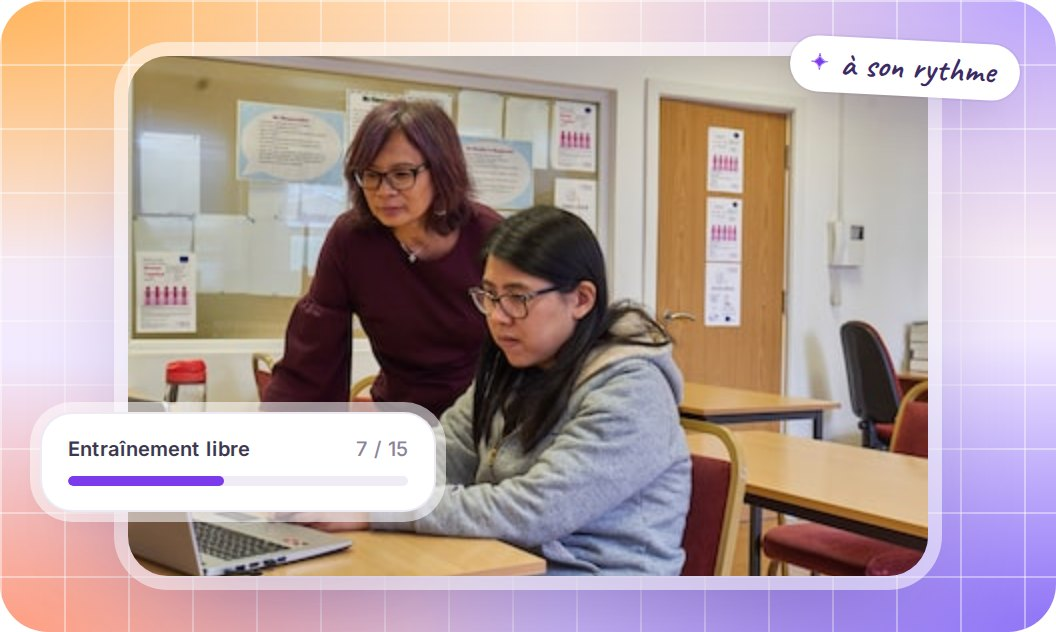
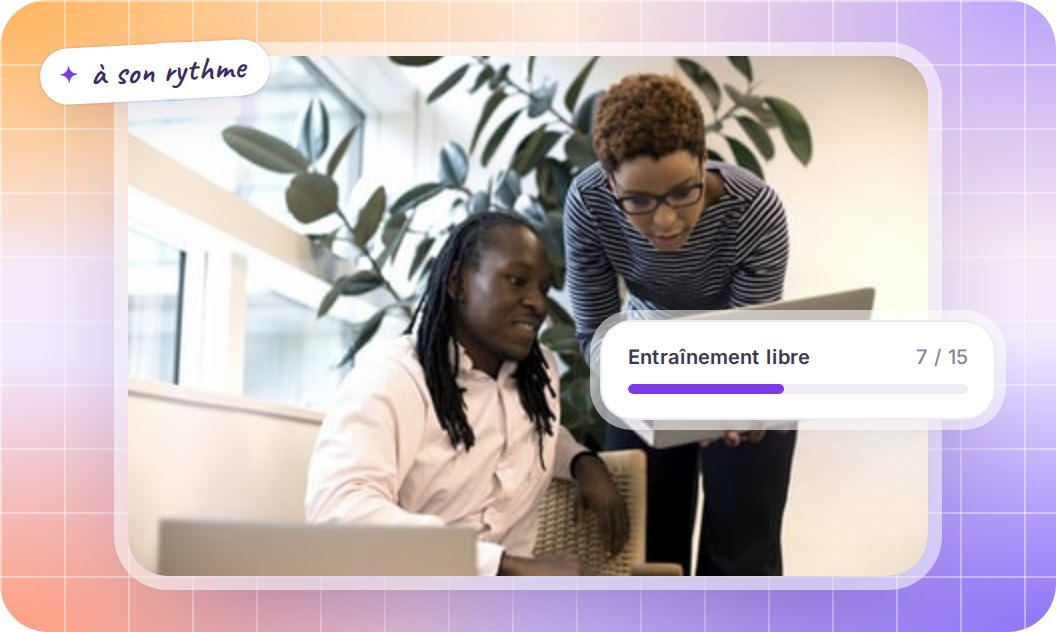
Newsletter CiviCap : chiffres en Instrument Sans, nouvelle photo d'en-tête
- Les trois chiffres des parcours (235, 257, 343) passent de l'Instrument Serif
  italique à l'Instrument Sans 600, serré à -0,03 em pour que les chiffres ne se
  touchent pas dans les polices de repli (Gmail, Outlook).
- L'en-tête du bloc blanc prend une photo claire : une formatrice montre son
  ordinateur à une personne en formation (Unsplash, UK Black Tech). La carte
  « Entraînement libre » se pose sur l'ordinateur et en couvre le logo ;
  l'étiquette « à son rythme » passe en haut à gauche.
- Texte alternatif, brief et README (typographie, crédit photo) mis à jour.

Claude-Session: https://claude.ai/code/session_01FeZWDqfAndBDqFz8uAYmmt

diff --git a/travaux/newsletter-civicap/email.html b/travaux/newsletter-civicap/email.html
@@ -104,7 +104,7 @@
     <p style="margin:28px 0 14px;text-align:center;font-family:Inter,-apple-system,BlinkMacSystemFont,'Segoe UI',Roboto,Helvetica,Arial,sans-serif;font-size:11px;font-weight:700;letter-spacing:.14em;text-transform:uppercase;color:#4C1D95;">
       835&nbsp;questions&nbsp;officielles · trois&nbsp;parcours</p>
     <table role="presentation" width="100%" cellpadding="0" cellspacing="0" border="0" style="border-collapse:separate;"><tr>
-      <td class="puce" width="33%" valign="top" bgcolor="#FFFFFF" style="background:#FFFFFF;border-radius:20px;padding:18px 18px 17px;"><div class="chiffre serif" style="font-family:'Instrument Serif',Georgia,'Times New Roman',serif;font-style:italic;font-weight:400;font-size:48px;line-height:.92;letter-spacing:-.01em;color:#6D28D9;">235</div><div style="font-family:Inter,-apple-system,BlinkMacSystemFont,'Segoe UI',Roboto,Helvetica,Arial,sans-serif;font-size:10.5px;font-weight:700;letter-spacing:.11em;text-transform:uppercase;color:#8A8499;padding-top:9px;">questions</div><div class="lib" style="font-family:'Instrument Sans',-apple-system,BlinkMacSystemFont,'Segoe UI',Roboto,Helvetica,Arial,sans-serif;font-size:15px;line-height:1.25;font-weight:600;letter-spacing:-.012em;color:#0F0A1A;padding-top:11px;">Carte de séjour pluriannuelle</div></td><td width="10" style="width:10px;font-size:0;line-height:0;">&nbsp;</td><td class="puce" width="33%" valign="top" bgcolor="#FFFFFF" style="background:#FFFFFF;border-radius:20px;padding:18px 18px 17px;"><div class="chiffre serif" style="font-family:'Instrument Serif',Georgia,'Times New Roman',serif;font-style:italic;font-weight:400;font-size:48px;line-height:.92;letter-spacing:-.01em;color:#6D28D9;">257</div><div style="font-family:Inter,-apple-system,BlinkMacSystemFont,'Segoe UI',Roboto,Helvetica,Arial,sans-serif;font-size:10.5px;font-weight:700;letter-spacing:.11em;text-transform:uppercase;color:#8A8499;padding-top:9px;">questions</div><div class="lib" style="font-family:'Instrument Sans',-apple-system,BlinkMacSystemFont,'Segoe UI',Roboto,Helvetica,Arial,sans-serif;font-size:15px;line-height:1.25;font-weight:600;letter-spacing:-.012em;color:#0F0A1A;padding-top:11px;">Carte de résident</div></td><td width="10" style="width:10px;font-size:0;line-height:0;">&nbsp;</td><td class="puce" width="33%" valign="top" bgcolor="#FFFFFF" style="background:#FFFFFF;border-radius:20px;padding:18px 18px 17px;"><div class="chiffre serif" style="font-family:'Instrument Serif',Georgia,'Times New Roman',serif;font-style:italic;font-weight:400;font-size:48px;line-height:.92;letter-spacing:-.01em;color:#6D28D9;">343</div><div style="font-family:Inter,-apple-system,BlinkMacSystemFont,'Segoe UI',Roboto,Helvetica,Arial,sans-serif;font-size:10.5px;font-weight:700;letter-spacing:.11em;text-transform:uppercase;color:#8A8499;padding-top:9px;">questions</div><div class="lib" style="font-family:'Instrument Sans',-apple-system,BlinkMacSystemFont,'Segoe UI',Roboto,Helvetica,Arial,sans-serif;font-size:15px;line-height:1.25;font-weight:600;letter-spacing:-.012em;color:#0F0A1A;padding-top:11px;">Naturalisation</div></td>
+      <td class="puce" width="33%" valign="top" bgcolor="#FFFFFF" style="background:#FFFFFF;border-radius:20px;padding:18px 18px 17px;"><div class="chiffre" style="font-family:'Instrument Sans',-apple-system,BlinkMacSystemFont,'Segoe UI',Roboto,Helvetica,Arial,sans-serif;font-size:46px;line-height:1;letter-spacing:-.03em;font-weight:600;color:#0F0A1A;">235</div><div style="font-family:Inter,-apple-system,BlinkMacSystemFont,'Segoe UI',Roboto,Helvetica,Arial,sans-serif;font-size:10.5px;font-weight:700;letter-spacing:.11em;text-transform:uppercase;color:#8A8499;padding-top:9px;">questions</div><div class="lib" style="font-family:'Instrument Sans',-apple-system,BlinkMacSystemFont,'Segoe UI',Roboto,Helvetica,Arial,sans-serif;font-size:15px;line-height:1.25;font-weight:600;letter-spacing:-.012em;color:#0F0A1A;padding-top:11px;">Carte de séjour pluriannuelle</div></td><td width="10" style="width:10px;font-size:0;line-height:0;">&nbsp;</td><td class="puce" width="33%" valign="top" bgcolor="#FFFFFF" style="background:#FFFFFF;border-radius:20px;padding:18px 18px 17px;"><div class="chiffre" style="font-family:'Instrument Sans',-apple-system,BlinkMacSystemFont,'Segoe UI',Roboto,Helvetica,Arial,sans-serif;font-size:46px;line-height:1;letter-spacing:-.03em;font-weight:600;color:#0F0A1A;">257</div><div style="font-family:Inter,-apple-system,BlinkMacSystemFont,'Segoe UI',Roboto,Helvetica,Arial,sans-serif;font-size:10.5px;font-weight:700;letter-spacing:.11em;text-transform:uppercase;color:#8A8499;padding-top:9px;">questions</div><div class="lib" style="font-family:'Instrument Sans',-apple-system,BlinkMacSystemFont,'Segoe UI',Roboto,Helvetica,Arial,sans-serif;font-size:15px;line-height:1.25;font-weight:600;letter-spacing:-.012em;color:#0F0A1A;padding-top:11px;">Carte de résident</div></td><td width="10" style="width:10px;font-size:0;line-height:0;">&nbsp;</td><td class="puce" width="33%" valign="top" bgcolor="#FFFFFF" style="background:#FFFFFF;border-radius:20px;padding:18px 18px 17px;"><div class="chiffre" style="font-family:'Instrument Sans',-apple-system,BlinkMacSystemFont,'Segoe UI',Roboto,Helvetica,Arial,sans-serif;font-size:46px;line-height:1;letter-spacing:-.03em;font-weight:600;color:#0F0A1A;">343</div><div style="font-family:Inter,-apple-system,BlinkMacSystemFont,'Segoe UI',Roboto,Helvetica,Arial,sans-serif;font-size:10.5px;font-weight:700;letter-spacing:.11em;text-transform:uppercase;color:#8A8499;padding-top:9px;">questions</div><div class="lib" style="font-family:'Instrument Sans',-apple-system,BlinkMacSystemFont,'Segoe UI',Roboto,Helvetica,Arial,sans-serif;font-size:15px;line-height:1.25;font-weight:600;letter-spacing:-.012em;color:#0F0A1A;padding-top:11px;">Naturalisation</div></td>
     </tr></table>
     </div>
     <!--[if gte mso 9]></v:textbox></v:rect><![endif]-->
@@ -117,7 +117,7 @@
     <table role="presentation" width="100%" cellpadding="0" cellspacing="0" border="0" bgcolor="#FFFFFF" style="background:#FFFFFF;border-radius:30px;">
       <tr><td class="pad" style="padding:36px 36px 0;">
         <img src="img/entete-photo.jpg" width="528" height="316"
-             alt="Une formatrice aux côtés d’une apprenante devant un ordinateur ; à l’écran, l’entraînement libre en est à la question 7 sur 15."
+             alt="Une formatrice montre l’écran de son ordinateur portable à une personne en formation, qui sourit ; à l’écran, l’entraînement libre en est à la question 7 sur 15."
              style="display:block;width:100%;max-width:528px;height:auto;border:0;">
       </td></tr>
       <tr><td class="pad" align="center" style="padding:56px 36px 0;">

diff --git a/travaux/newsletter-civicap/index.html b/travaux/newsletter-civicap/index.html
@@ -79,7 +79,7 @@ pre.txt{margin:16px 0 0;padding:20px 22px;background:var(--cream-0);border:1px s
       les fragments d'interface sont posés dans des cadres de verre, avec quelques étiquettes
       manuscrites.</p>
     <ul class="manques">
-      <li><span><b>La typographie.</b> Titres en Instrument Sans, mots mis en valeur en
+      <li><span><b>La typographie.</b> Titres et chiffres en Instrument Sans, mots mis en valeur en
         Instrument Serif italique («&nbsp;prête.&nbsp;», «&nbsp;votre place&nbsp;», «&nbsp;chaque
         apprenant&nbsp;», «&nbsp;quand vous le voulez.&nbsp;»), texte courant en Inter. Ces polices
         s'affichent dans Apple Mail et sur iPhone&nbsp;; ailleurs, la police système prend le relais
@@ -93,11 +93,13 @@ pre.txt{margin:16px 0 0;padding:20px 22px;background:var(--cream-0);border:1px s
         traduction</b>&nbsp;: la copie du site que j'ai reçue ne la donnait qu'en arabe. À remplacer
         par le texte français exact de CiviCap.</span></li>
       <li><span><b>Les trois parcours</b> sont trois cartes blanches posées sur le dégradé, le
-        nombre de questions en grand italique.</span></li>
-      <li><span><b>La photo d'en-tête</b> de la carte blanche&nbsp;: une formatrice aux côtés d'une
-        apprenante devant un ordinateur (Unsplash, Centre for Ageing Better). Elle n'existe ici
-        qu'en 400&nbsp;px de large&nbsp;: elle est montrée à sa taille dans un cadre, jamais étirée.
-        Rien ne présente ces personnes comme des utilisatrices de CiviCap.</span></li>
+        nombre de questions en grand, en Instrument Sans serré.</span></li>
+      <li><span><b>La photo d'en-tête</b> de la carte blanche&nbsp;: une formatrice montre son
+        ordinateur à une personne en formation, dans une pièce claire (Unsplash, UK Black Tech).
+        Elle n'existe ici qu'en 400&nbsp;px de large&nbsp;: elle est montrée à sa taille dans un
+        cadre, jamais étirée. La carte «&nbsp;Entraînement libre&nbsp;» posée sur l'ordinateur
+        couvre la marque de l'appareil. Rien ne présente ces personnes comme des utilisatrices
+        de CiviCap.</span></li>
       <li><span><b>Le bilan, la jauge et le suivi de groupe</b> portent la mention
         «&nbsp;Exemple&nbsp;»&nbsp;: barres, courbe et scores ne sont les résultats de personne.</span></li>
     </ul>

diff --git a/tools/illustrations-civicap.py b/tools/illustrations-civicap.py
@@ -385,10 +385,12 @@ def jauge_large():
 
 
 def entete_photo():
-    """L'en-tête du bloc blanc : une formatrice aux côtés d'une apprenante, dans un cadre.
+    """L'en-tête du bloc blanc : une formatrice montre son ordinateur à une personne en formation.
 
     La photo (Unsplash) n'existe ici qu'en 400 px de large : elle est montrée à sa taille,
     jamais agrandie au-delà, et les éléments d'interface qui l'entourent restent nets.
+    La carte « Entraînement libre » se pose sur le dos de l'ordinateur : elle donne ce que
+    voit l'apprenant et couvre la marque de l'appareil.
     """
     w, h = 528, 316
     css = """
@@ -396,9 +398,9 @@ def entete_photo():
 .fond::after{content:"";position:absolute;inset:0;""" + GRILLE + """;
   -webkit-mask-image:radial-gradient(ellipse 60% 60% at 50% 50%,transparent 35%,#000 85%)}
 .ph{position:absolute;left:64px;top:28px;width:400px;height:260px;border-radius:20px;
-  background:url(""" + photo("accompagnement.jpg") + """) center/cover no-repeat;
+  background:url(""" + photo("formatrice-ordinateur.jpg") + """) center/cover no-repeat;
   box-shadow:0 0 0 7px rgba(255,255,255,.55),0 30px 60px -22px rgba(46,16,101,.45)}
-.mini{left:20px;top:206px;width:198px;padding:11px 13px 12px}
+.mini{left:300px;top:160px;width:198px;padding:11px 13px 12px}
 .mini .h{display:flex;align-items:center;justify-content:space-between;font-size:10px;font-weight:600;color:#3D3850}
 .mini .h span{color:#8A8499;font-weight:500}
 .mini .prog{margin-top:8px;height:5px;border-radius:9px;background:#EFECF6;overflow:hidden}
@@ -408,7 +410,7 @@ def entete_photo():
 <div class="fond"></div>
 <div class="ph"></div>
 <div class="carte mini"><div class="h">Entraînement libre<span>7 / 15</span></div><div class="prog"><i></i></div></div>
-<div class="main" style="right:18px;top:20px;transform:rotate(3deg)"><i>✦</i>à son rythme</div>
+<div class="main" style="left:20px;top:22px;transform:rotate(-3deg)"><i>✦</i>à son rythme</div>
 """
     return w, h, css, corps, {"jpeg": 86, "echelle": 2}
 

diff --git a/travaux/README.md b/travaux/README.md
@@ -36,17 +36,18 @@ et cinq fragments d'interface en PNG double densité : la démonstration du 14 j
 pile de questions, l'examen blanc, le bilan par thème, la jauge de préparation, le suivi
 d'un groupe côté formateur. Chaque visuel est une page HTML/CSS rendue par Chromium.
 
-Typographie de l'e-mail : titres en Instrument Sans, mots mis en valeur en Instrument
+Typographie de l'e-mail : titres et chiffres en Instrument Sans, mots mis en valeur en Instrument
 Serif italique, texte en Inter, chargés depuis Google Fonts là où la messagerie le permet
 (Apple Mail, iOS). Ailleurs, la pile système prend le relais, et l'italique retombe sur
 Georgia — Outlook compris, grâce à la classe `serif` reprise dans son bloc conditionnel.
 
-`photos/accompagnement.jpg` : une formatrice aux côtés d'une apprenante, photo Unsplash
-du Centre for Ageing Better (unsplash.com/photos/ukDFRP2RNA0), licence Unsplash (usage
-commercial libre, crédit non obligatoire). C'est la version de 400 px de large : le
-réseau de l'environnement de travail bloquait `images.unsplash.com`. Elle est montrée à
-sa taille, jamais étirée ; pour un original plus grand, le déposer sous le même nom et
-régénérer.
+`photos/formatrice-ordinateur.jpg` : une formatrice montre son ordinateur à une personne
+en formation, photo Unsplash de UK Black Tech (unsplash.com/photos/1g96LfUK3lU), licence
+Unsplash (usage commercial libre, crédit non obligatoire, aucun droit sur les marques
+visibles : la carte d'interface posée sur l'ordinateur en couvre le logo). C'est la
+version de 400 px de large : le réseau de l'environnement de travail bloquait
+`images.unsplash.com`. Elle est montrée à sa taille, jamais étirée ; pour un original plus
+grand, le déposer sous le même nom et régénérer.
 
 Le contenu vient de ce que CiviCap montre sur son propre site, sauf le suivi côté
 formateur, que la copie du site ne décrit pas : il illustre la rubrique demandée et doit
